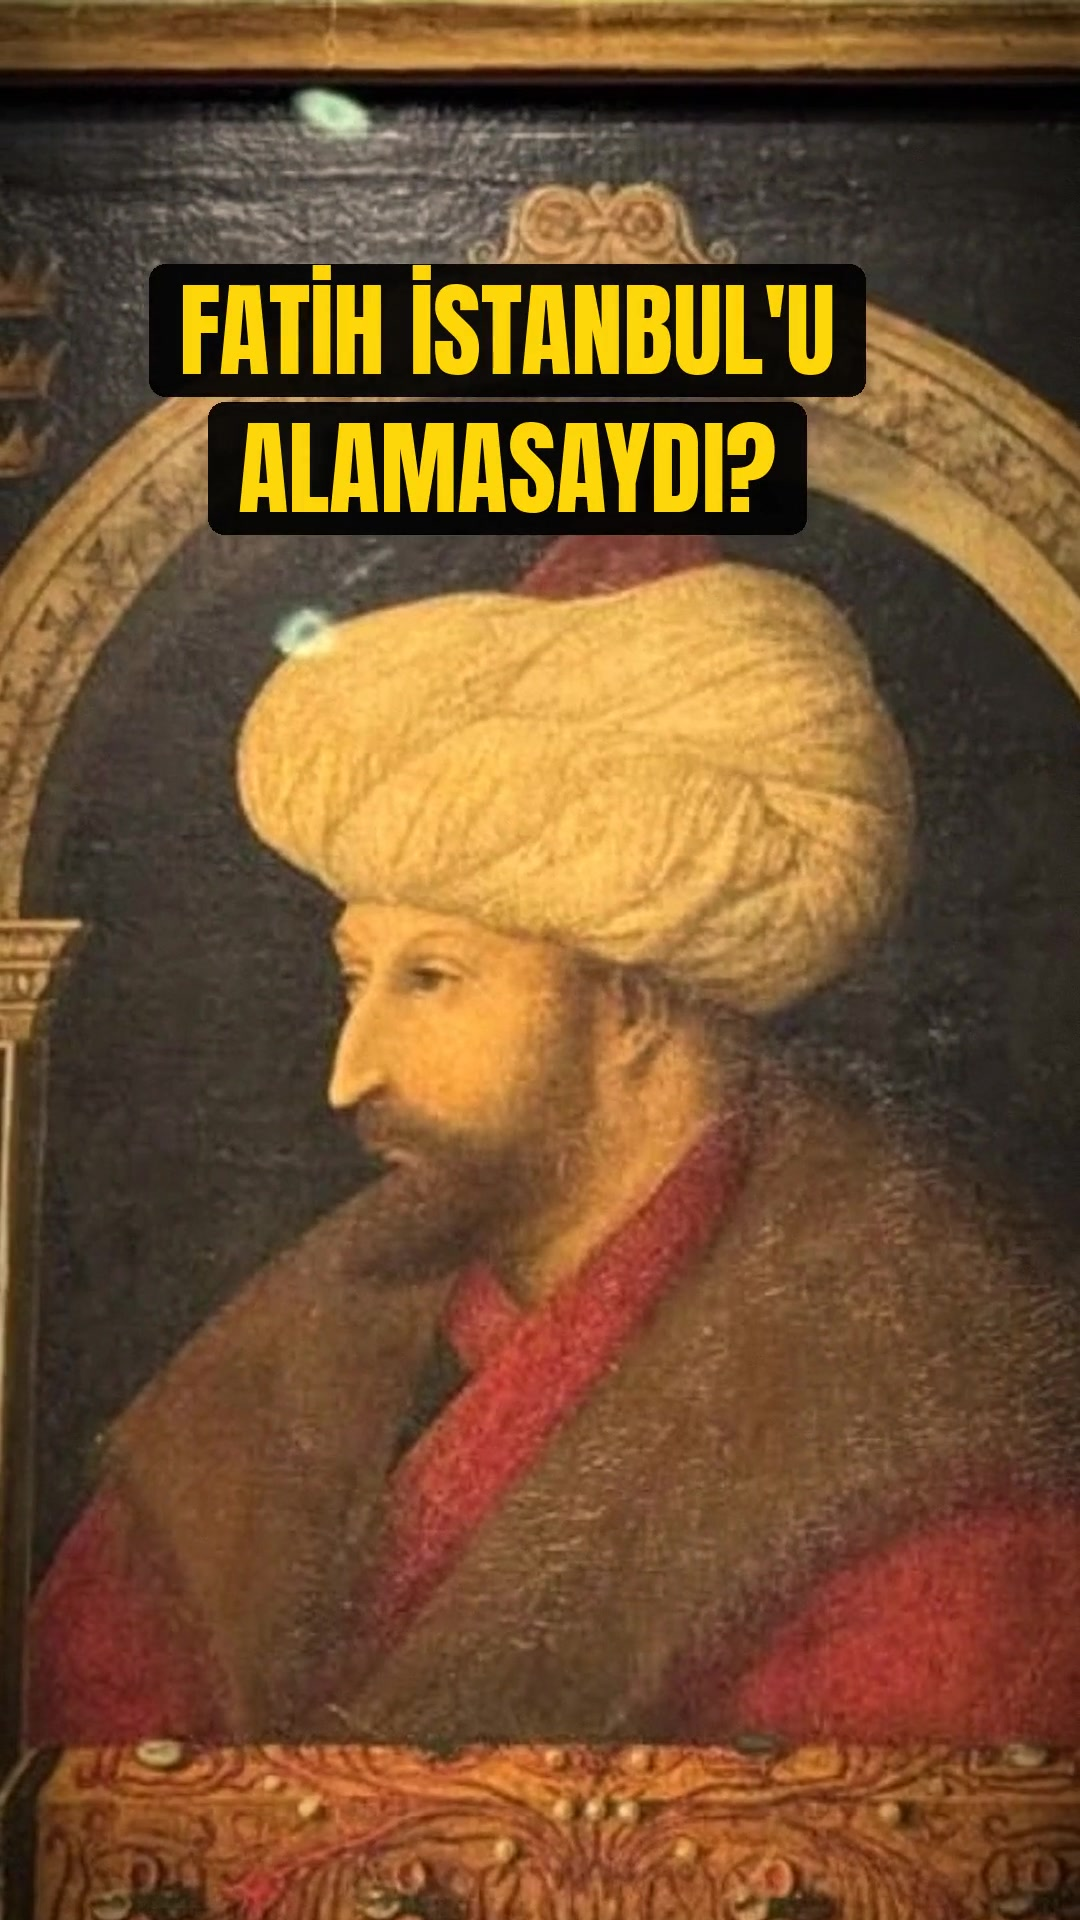
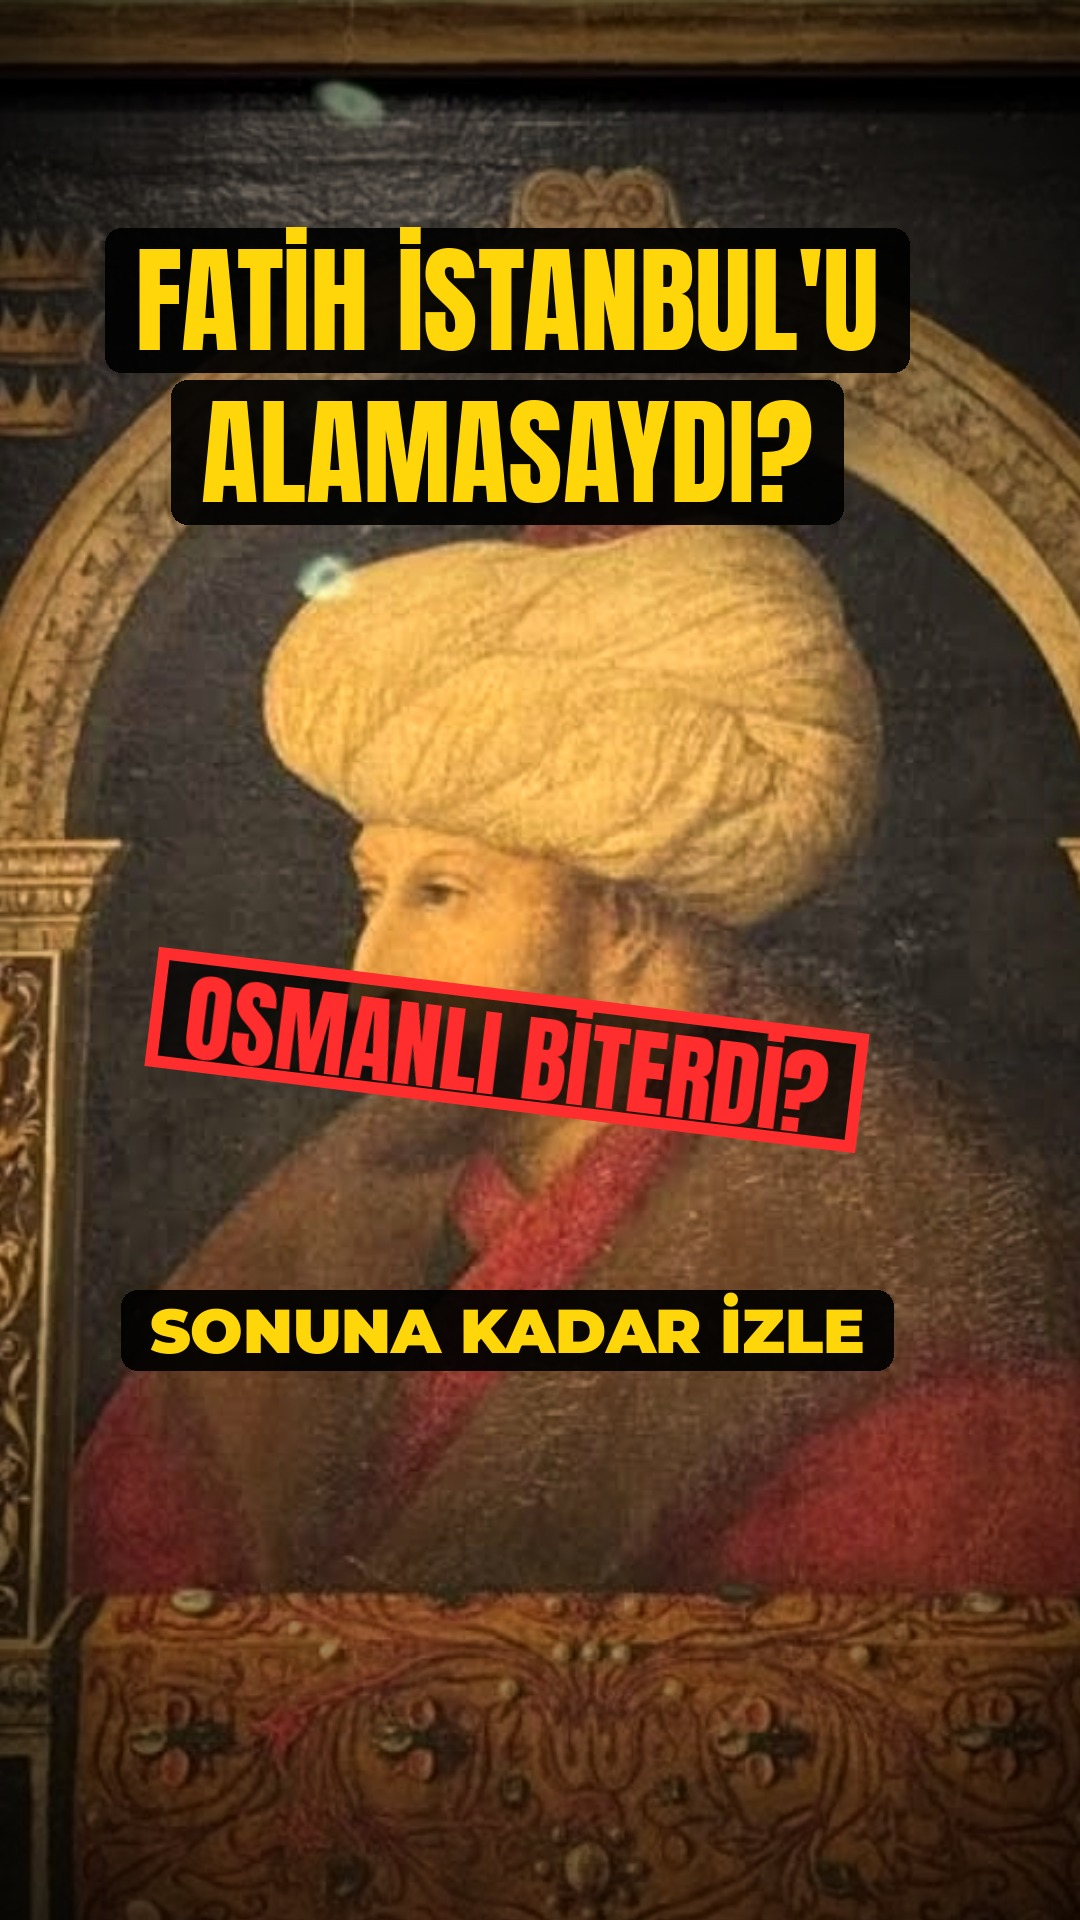
Kapak sistemi: scenes.COVER ile ilk kare + kapak.jpg, Metricool thumbnail
Claude-Session: https://claude.ai/code/session_01F3kmqnYyrWABB14zG5HZVq

diff --git a/engine/render.py b/engine/render.py
@@ -636,7 +636,10 @@ def ov_stamp(L, ov, t):
     tw = d.textlength(txt, font=f)
     col = tuple(ov.get("color", RED))
     al = int(255 * out)
-    d.rectangle((450 - tw / 2 - 34, 200 - size * 0.62, 450 + tw / 2 + 34, 200 + size * 0.62), outline=col + (al,), width=12)
+    box = (450 - tw / 2 - 34, 200 - size * 0.62, 450 + tw / 2 + 34, 200 + size * 0.62)
+    if ov.get("fill"):
+        d.rectangle(box, fill=(0, 0, 0, int(190 * out)))
+    d.rectangle(box, outline=col + (al,), width=12)
     d.text((450, 205), txt, font=f, fill=col + (al,), anchor="mm")
     s = 1 + 1.2 * (1 - eout(q, 3))
     tmp = tmp.resize((int(900 * s), int(400 * s)), Image.BILINEAR).rotate(ov.get("rot", -8), Image.BILINEAR, expand=True)
@@ -1189,7 +1192,35 @@ def grain():
     return [rng.normal(0, 3.5, (H, W, 1)).astype(np.float32) for _ in range(4)]
 
 
+@lru_cache(1)
+def cover_frame():
+    """Kapak (thumbnail): videonun ilk 2 karesi ve kapak.jpg. scenes.COVER ile tanımlanır."""
+    c = S.COVER
+    z = c.get("zoom", 1.05)
+    sc = dict(t=-9.0, _end=-8.0, img=c["img"], zoom=(z, z), focus=c.get("focus", (0.5, 0.35)), grade=c.get("grade", "std"))
+    img = r_cover(sc, -9.0)
+    # üst ve alt koyu geçiş: yazılar her görselde okunur
+    y = np.linspace(0, 1, H, dtype=np.float32)[:, None, None]
+    shade = 1 - 0.55 * np.clip((0.32 - y) / 0.32, 0, 1) - 0.6 * np.clip((y - 0.62) / 0.38, 0, 1)
+    arr = np.asarray(img).astype(np.float32) * shade * vignette()
+    img = Image.fromarray(np.clip(arr, 0, 255).astype(np.uint8)).convert("RGBA")
+    L = Image.new("RGBA", (W, H), (0, 0, 0, 0))
+    for m in c.get("marks", []):
+        OV[m["type"]](L, dict(m, t0=-9.0, t1=99.0), 0.0)
+    ov_title(L, dict(t0=-9.0, t1=99.0, lines=c["lines"], y=c.get("y", 300), size=c.get("size", 116)), 0.0)
+    if c.get("stamp"):
+        ov_stamp(L, dict(t0=-9.0, t1=99.0, text=c["stamp"], y=c.get("stamp_y", 1000), size=c.get("stamp_size", 130),
+                         rot=c.get("stamp_rot", -7), color=c.get("stamp_color", RED), fill=True), 0.0)
+    if c.get("bottom"):
+        d = ImageDraw.Draw(L)
+        pill_text(d, CX, c.get("bottom_y", 1300), tr_upper(c["bottom"]), font("mont", 62, 900), YEL, padx=28, pady=16)
+    img.alpha_composite(L)
+    return img.convert("RGB")
+
+
 def frame(t):
+    if hasattr(S, "COVER") and t < 2 / FPS:
+        return cover_frame()
     img = base_frame(t)
     for ft, dur in S.FLASH:
         d = t - ft
@@ -1226,6 +1257,9 @@ def render_range(f0, f1, out):
 
 def main():
     outdir = sys.argv[1]
+    if len(sys.argv) > 2 and sys.argv[2] == "cover":
+        cover_frame().save(os.path.join(outdir, "kapak.jpg"), quality=92)
+        return
     workers = int(sys.argv[2]) if len(sys.argv) > 2 else 4
     if len(sys.argv) > 3:
         for ts in sys.argv[3].split(","):

diff --git a/tools/viral.py b/tools/viral.py
@@ -2,7 +2,8 @@
 
   python3 tools/viral.py voice  <klasör>            tts.txt -> build/voice.mp3, script.txt, aligned.json
   python3 tools/viral.py stills <klasör> t1,t2,...  önizleme kareleri -> build/stills/
-  python3 tools/viral.py render <klasör>            müzik+sfx+mix, render, encode -> <klasör>/video.mp4
+  python3 tools/viral.py cover  <klasör>            scenes.COVER -> <klasör>/kapak.jpg (önizleme)
+  python3 tools/viral.py render <klasör>            müzik+sfx+mix, render, encode -> <klasör>/video.mp4 + kapak.jpg
 
 Harita videoları için klasörde mapdata.py varsa engine/map/run_map.py kullanılır.
 """
@@ -51,6 +52,11 @@ def stills(d, ts):
     run([PY, renderer(d), out, "1", ts], env=env(d))
 
 
+def cover(d):
+    """scenes.COVER'dan kapak.jpg üretir (videonun ilk karesiyle aynı)."""
+    run([PY, renderer(d), os.path.abspath(d), "cover"], env=env(d))
+
+
 def render(d, workers="4"):
     d = os.path.abspath(d); b = os.path.join(d, "build"); out = os.path.join(b, "out"); os.makedirs(out, exist_ok=True)
     e = env(d)
@@ -80,12 +86,11 @@ def render(d, workers="4"):
         ["-maxrate", f"{kbps * 2}k", "-bufsize", f"{kbps * 2 + 2000}k", "-pass", "2", "-pix_fmt", "yuv420p",
          "-profile:v", "high", "-level", "4.2", "-c:a", "aac", "-b:a", "160k", "-movflags", "+faststart",
          "-tag:v", "avc1", "-shortest", final])
-    # kapak: 1. saniyedeki kare
-    run(["ffmpeg", "-v", "error", "-y", "-ss", "1.0", "-i", final, "-frames:v", "1", "-q:v", "2", os.path.join(d, "kapak.jpg")])
+    cover(d)
     print(f"{final}: {os.path.getsize(final) / 1e6:.1f} MB, {duration(final):.2f} sn")
 
 
 if __name__ == "__main__":
     cmd, d = sys.argv[1], sys.argv[2]
     {"voice": lambda: voice(d), "stills": lambda: stills(d, sys.argv[3]),
-     "render": lambda: render(d, *sys.argv[3:4])}[cmd]()
+     "render": lambda: render(d, *sys.argv[3:4]), "cover": lambda: cover(d)}[cmd]()

diff --git a/videolar/2026-10-27-fatih-istanbul/scenes.py b/videolar/2026-10-27-fatih-istanbul/scenes.py
@@ -197,3 +197,7 @@ SFX += [dict(name="pen", t=p, gain=0.3) for p in _PEN]
 
 def spec():
     return {"duration": DURATION, "music": MUSIC, "sfx": SFX}
+
+
+COVER = dict(img="fatih", focus=(0.45, 0.32), zoom=1.12, lines=["FATİH İSTANBUL'U", "ALAMASAYDI?"], size=118,
+             stamp="OSMANLI BİTERDİ?", stamp_y=1050, stamp_size=96, bottom="sonuna kadar izle", bottom_y=1330)

diff --git a/.claude/skills/viral/SKILL.md b/.claude/skills/viral/SKILL.md
@@ -56,6 +56,15 @@ python3 tools/viral.py voice videolar/<klasör>
   - Yapay zekâ görünümü olmasın: gerçek arşiv görselleri, sade modern tipografi, abartısız renk.
   - Sona `cta` + tartışma sorusu `kinetic` ile.
   - Kaynak gösterilen iddialarda `source` overlay'i kullan.
+- **Kapak (zorunlu):** `scenes.py` içine `COVER` ekle. Videonun ilk 2 karesi ve `kapak.jpg` bundan üretilir (TikTok kapağı ilk kareden alır; beyaz flaş/boş kare kapak olmasın). Kullanıcının elle yaptığı kapak tarzı:
+  ```python
+  COVER = dict(img="fatih", focus=(0.45, 0.32), zoom=1.12,          # yüzü net, büyük bir görsel
+               lines=["FATİH İSTANBUL'U", "ALAMASAYDI?"], size=118,   # siyah kutuda sarı, 2 satır, kısa ve soru/şok
+               stamp="OSMANLI BİTERDİ?", stamp_y=1050, stamp_size=96, # kırmızı damga: tartışma kışkırtan 1-3 kelime
+               bottom="sonuna kadar izle", bottom_y=1330,              # altta sarı küçük çağrı
+               marks=[dict(type="pencircle", cx=..., cy=..., rx=..., ry=...)])  # isteğe bağlı: kırmızı daire/ok
+  ```
+  Başlık 3 saniyede okunmalı, en fazla ~16 karakter/satır. Yüz veya ana obje yazıların altında kalmasın. `python3 tools/viral.py cover <klasör>` ile üretip Read ile kontrol et; küçük (360x640) halde de okunur olmalı.
 - Önizleme: `python3 tools/viral.py stills videolar/<klasör> 0.5,5,30,60,...` ve kareleri Read ile kontrol et (yazı taşması, yüz kesilmesi, güvenli alan). Sorunları düzelt.
 
 ## 6. Render
@@ -80,6 +89,7 @@ git add videolar/<klasör> takvim.md && git commit -m "<konu> videosu" && git pu
 ```json
 {"autoPublish": true, "draft": false, "text": "<aciklama.txt>",
  "media": ["https://raw.githubusercontent.com/medyagemreklamcilik-sudo/acaba/main/videolar/<klasör>/video.mp4"],
+ "videoThumbnailUrl": "https://raw.githubusercontent.com/medyagemreklamcilik-sudo/acaba/main/videolar/<klasör>/kapak.jpg",
  "providers": [{"network":"instagram"},{"network":"tiktok"},{"network":"youtube"},{"network":"facebook"}],
  "publicationDate": {"dateTime": "<YYYY-MM-DD>T16:00:00", "timezone": "Europe/Istanbul"},
  "instagramData": {"type": "REEL", "showReelOnFeed": true},
@@ -88,7 +98,7 @@ git add videolar/<klasör> takvim.md && git commit -m "<konu> videosu" && git pu
  "facebookData": {"type": "REEL"},
  "firstCommentText": "", "hasNotReadNotes": false, "shortener": false, "smartLinkData": {"ids": []}, "descendants": [], "mediaAltText": []}
 ```
-Hata verirse mesajı olduğu gibi kullanıcıya ilet; plan limiti (ücretsiz plan) dolduysa takvimde durumu `hazır` bırak.
+`VIDEO_THUMBNAIL_NOT_APPLICABLE` hatası gelirse `videoThumbnailUrl` olmadan bir kez daha dene (kapak zaten videonun ilk karesi). Başka hata verirse mesajı olduğu gibi kullanıcıya ilet; plan limiti (ücretsiz plan) dolduysa takvimde durumu `hazır` bırak.
 Başarılıysa takvimde durumu `planlandı` yap, commit + push.
 
 ## 10. Rapor
